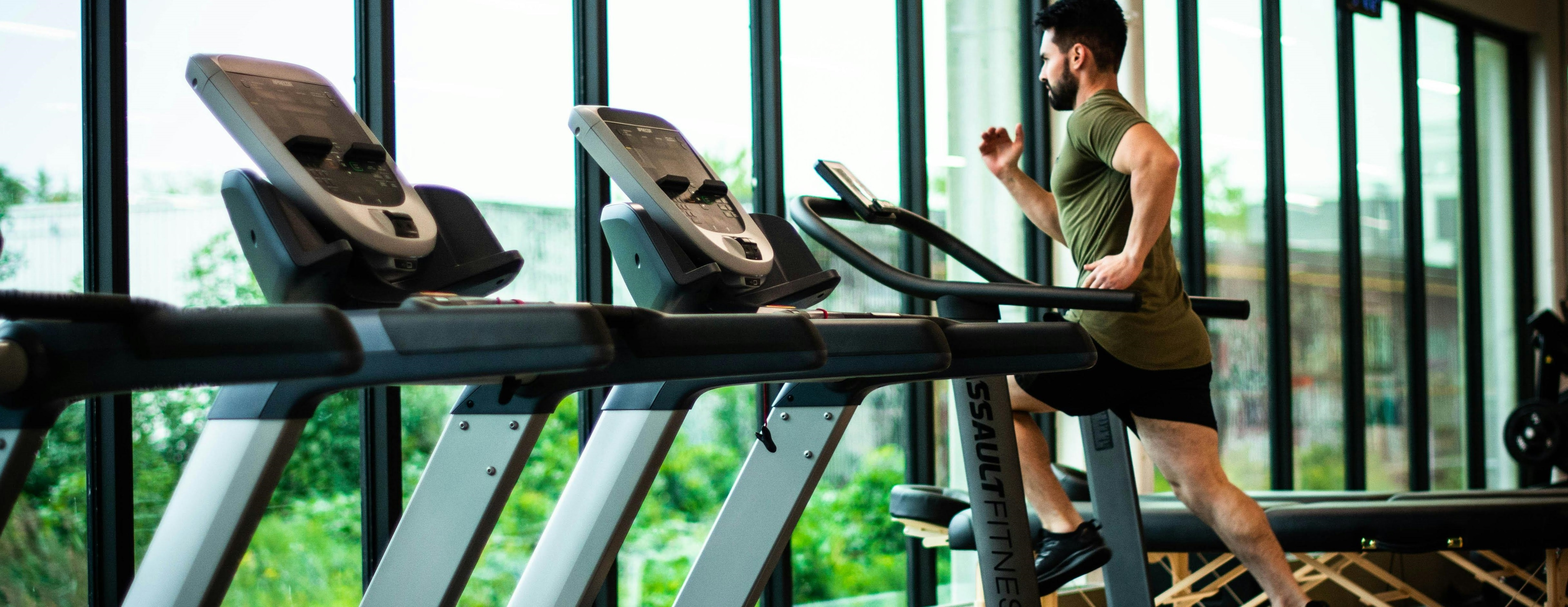
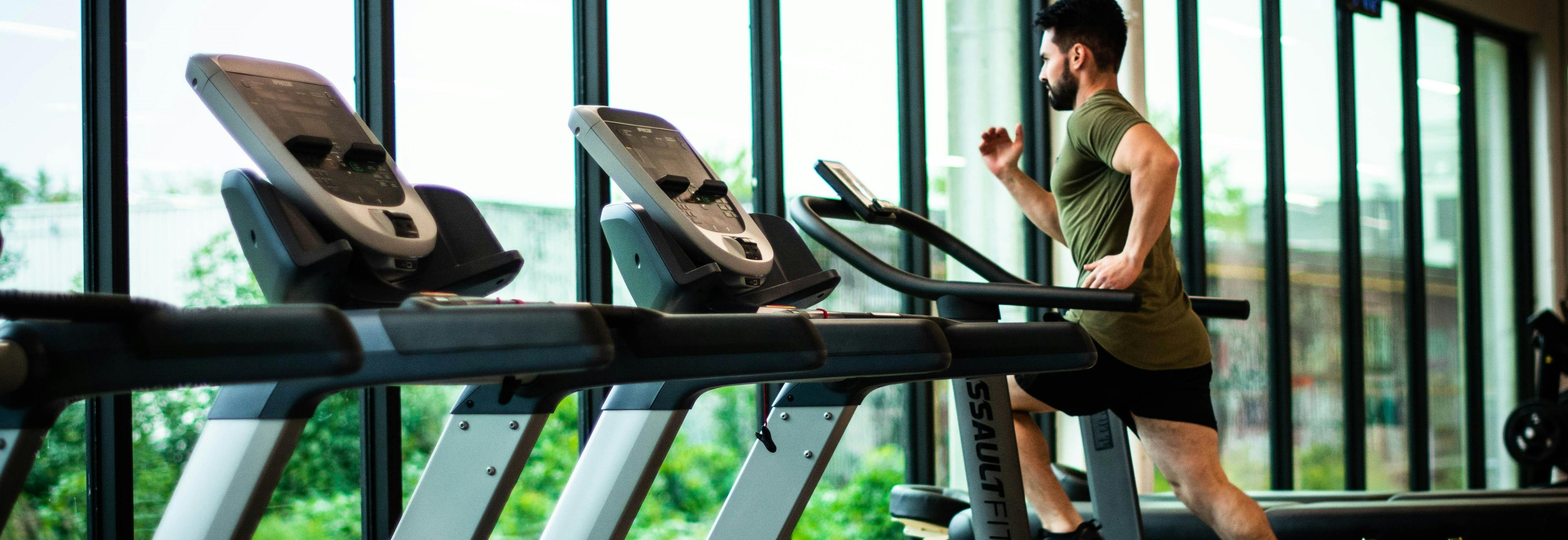
refactor(components/app): Remove fixed header, adjust home image, slow down loop animation, and update page layout

diff --git a/src/components/RollingGallery.tsx b/src/components/RollingGallery.tsx
@@ -1,0 +1,170 @@
+import React, { useEffect, useState } from "react";
+import {
+  motion,
+  useMotionValue,
+  useAnimation,
+  useTransform,
+} from "motion/react";
+import type { PanInfo, ResolvedValues } from "motion/react";
+
+const IMGS: string[] = [
+  "https://images.unsplash.com/photo-1517836357463-d25dfeac3438?w=500&auto=format&fit=crop&q=60&ixlib=rb-4.1.0&ixid=M3wxMjA3fDB8MHxzZWFyY2h8NHx8Z3ltfGVufDB8fDB8fHww",
+  "https://images.pexels.com/photos/868757/pexels-photo-868757.jpeg",
+  "https://images.pexels.com/photos/1552242/pexels-photo-1552242.jpeg",
+  "https://images.pexels.com/photos/863988/pexels-photo-863988.jpeg",
+  "https://images.unsplash.com/photo-1520250497591-112f2f40a3f4?q=80&w=3456&auto=format&fit=crop&ixlib=rb-4.0.3&ixid=M3wxMjA3fDB8MHxwaG90by1wYWdlfHx8fGVufDB8fHx8fA%3D%3D",
+  "https://images.unsplash.com/photo-1520250497591-112f2f40a3f4?q=80&w=3456&auto=format&fit=crop&ixlib=rb-4.0.3&ixid=M3wxMjA3fDB8MHxwaG90by1wYWdlfHx8fGVufDB8fHx8fA%3D%3D",
+];
+
+interface RollingGalleryProps {
+  autoplay?: boolean;
+  pauseOnHover?: boolean;
+  images?: string[];
+}
+
+const RollingGallery: React.FC<RollingGalleryProps> = ({
+  autoplay = false,
+  pauseOnHover = false,
+  images = [],
+}) => {
+  const galleryImages = images.length > 0 ? images : IMGS;
+
+  const [isScreenSizeSm, setIsScreenSizeSm] = useState<boolean>(
+    window.innerWidth <= 640,
+  );
+  useEffect(() => {
+    const handleResize = () => setIsScreenSizeSm(window.innerWidth <= 640);
+    window.addEventListener("resize", handleResize);
+    return () => window.removeEventListener("resize", handleResize);
+  }, []);
+
+  const cylinderWidth: number = isScreenSizeSm ? 1100 : 1800;
+  const faceCount: number = galleryImages.length;
+  const faceWidth: number = (cylinderWidth / faceCount) * 1.8;
+  const radius: number = (cylinderWidth / (2 * Math.PI)) * 1.2;
+
+  const dragFactor: number = 0.05;
+  const rotation = useMotionValue(0);
+  const controls = useAnimation();
+
+  const transform = useTransform(
+    rotation,
+    (val: number) => `rotate3d(0,1,0,${val}deg)`,
+  );
+
+  const startInfiniteSpin = (startAngle: number) => {
+    controls.start({
+      rotateY: [startAngle, startAngle - 360],
+      transition: {
+        duration: 20,
+        ease: "linear",
+        repeat: Infinity,
+      },
+    });
+  };
+
+  useEffect(() => {
+    if (autoplay) {
+      const currentAngle = rotation.get();
+      startInfiniteSpin(currentAngle);
+    } else {
+      controls.stop();
+    }
+    // eslint-disable-next-line react-hooks/exhaustive-deps
+  }, [autoplay]);
+
+  const handleUpdate = (latest: ResolvedValues) => {
+    if (typeof latest.rotateY === "number") {
+      rotation.set(latest.rotateY);
+    }
+  };
+
+  const handleDrag = (
+    _: MouseEvent | TouchEvent | PointerEvent,
+    info: PanInfo,
+  ): void => {
+    controls.stop();
+    rotation.set(rotation.get() + info.offset.x * dragFactor);
+  };
+
+  const handleDragEnd = (
+    _: MouseEvent | TouchEvent | PointerEvent,
+    info: PanInfo,
+  ): void => {
+    const finalAngle = rotation.get() + info.velocity.x * dragFactor;
+    rotation.set(finalAngle);
+    if (autoplay) {
+      startInfiniteSpin(finalAngle);
+    }
+  };
+
+  const handleMouseEnter = (): void => {
+    if (autoplay && pauseOnHover) {
+      controls.stop();
+    }
+  };
+
+  const handleMouseLeave = (): void => {
+    if (autoplay && pauseOnHover) {
+      const currentAngle = rotation.get();
+      startInfiniteSpin(currentAngle);
+    }
+  };
+
+  return (
+    <div className="relative h-[500px] w-full overflow-hidden">
+      <div
+        className="absolute top-0 left-0 h-full w-[48px] z-10"
+        style={{
+          background:
+            "linear-gradient(to left, rgba(0,0,0,0) 0%, #060010 100%)",
+        }}
+      />
+      <div
+        className="absolute top-0 right-0 h-full w-[48px] z-10"
+        style={{
+          background:
+            "linear-gradient(to right, rgba(0,0,0,0) 0%, #060010 100%)",
+        }}
+      />
+      <div className="flex h-full items-center justify-center [perspective:1000px] [transform-style:preserve-3d]">
+        <motion.div
+          drag="x"
+          dragElastic={0}
+          onDrag={handleDrag}
+          onDragEnd={handleDragEnd}
+          onMouseEnter={handleMouseEnter}
+          onMouseLeave={handleMouseLeave}
+          animate={controls}
+          onUpdate={handleUpdate}
+          style={{
+            transform: transform,
+            rotateY: rotation,
+            width: cylinderWidth,
+            transformStyle: "preserve-3d",
+          }}
+          className="flex min-h-[200px] cursor-grab items-center justify-center [transform-style:preserve-3d]"
+        >
+          {galleryImages.map((url, i) => (
+            <div
+              key={i}
+              className="group absolute flex h-fit items-center justify-center p-[8%] [backface-visibility:hidden] md:p-[6%]"
+              style={{
+                width: `${faceWidth}px`,
+                transform: `rotateY(${(360 / faceCount) * i}deg) translateZ(${radius}px)`,
+              }}
+            >
+              <img
+                src={url}
+                alt="gallery"
+                className="pointer-events-none w-full h-[200px] rounded-[15px] border-[3px] border-white object-cover transition-transform duration-300 ease-out group-hover:scale-105"
+              />
+            </div>
+          ))}
+        </motion.div>
+      </div>
+    </div>
+  );
+};
+
+export default RollingGallery;

diff --git a/src/App.tsx b/src/App.tsx
@@ -2,11 +2,16 @@ import Activitie from "./components/Activitie";
 import Header from "./components/Header";
 import Home from "./components/Home";
 import LogoLoop from "./components/LogoLoop";
+// import RollingGallery from './components/RollingGallery';
 import Plan from "./components/Plan";
 import Time from "./components/Time";
 
 import IconScroll from "/iconScroll.png";
 import TecnlogyScroll from "/tecnologyScroll.png";
+
+import Zumba from "/zumba.jpg";
+import Crossfit from "/crossfit.jpg";
+import Yoga from "/yoga.jpg";
 
 function App() {
   const imageLogos = [
@@ -14,16 +19,22 @@ function App() {
     { src: TecnlogyScroll, alt: "Company 1" },
   ];
 
+  const image = [
+    { src: Zumba, alt: "Company 1" },
+    { src: Crossfit, alt: "Company 1" },
+    { src: Yoga, alt: "Company 1" },
+  ];
+
   return (
     <>
-      <div className="bg-white">
+      <div className="bg-gradient-to-t from-[#9cff1e] to-[#f7f6f6]">
         <Header />
         <Home />
 
         <div className="bg-black">
           <LogoLoop
             logos={imageLogos}
-            speed={120}
+            speed={50}
             direction="left"
             logoHeight={48}
             gap={40}
@@ -35,9 +46,34 @@ function App() {
           />
         </div>
 
-        <Time />
-        <Activitie />
+        {/* <Activitie /> */}
+
+        {/* <div className="bg-[#9cff1e] h-screen p-8 ">
+          <h2 className="text-white font-bold text-center text-3xl">Atividades que transformam seu treino</h2>
+          <p className="text-white">Na Technology Gym, unimos inovação e movimento para oferecer uma experiência única de treino. Nossa academia tecnológica e inovadora foi pensada para quem busca saúde, bem-estar e performance em um só lugar.</p>
+          <p>Aqui, você encontra aulas dinâmicas e diversificadas, que atendem a todos os estilos e objetivos</p>
+          <p>Zumba e danças variadas: energia, diversão e alto gasto calórico ao som de músicas envolventes.</p>
+          <p>Crossfit: treinos intensos que desafiam seus limites e desenvolvem força, resistência e explosão.</p>
+          <p>Natação: benefícios completos para corpo e mente, com técnicas que vão do iniciante ao avançado.</p>
+          <p>Spinning: pedale em alto ritmo com treinos motivadores que melhoram o condicionamento e queimam calorias.</p>
+          <p>Yoga e meditação: equilíbrio físico e mental, promovendo relaxamento, foco e flexibilidade.</p>
+          <div className="flex  items-center justify-center">
+            <LogoLoop
+              logos={image}
+              speed={80}
+              direction="left"
+              logoHeight={250}
+              gap={40}
+              pauseOnHover
+              scaleOnHover
+              fadeOut
+              fadeOutColor="#9cff1e"
+              ariaLabel="Technology partners"
+            />
+          </div>
+        </div> */}
         <Plan />
+        <Time />
       </div>
     </>
   );

diff --git a/src/components/CardPlan.tsx b/src/components/CardPlan.tsx
@@ -3,7 +3,7 @@ import ItemPlan from "./ItemPlan";
 
 export function CardPlanFitness() {
   return (
-    <div className="bg-[#949494] p-8 rounded-xl m-4 flex flex-col items-center">
+    <div className="bg-[#000000] p-8 rounded-xl m-4 flex flex-col items-center">
       <h3 className="text-white text-2xl font-bold mb-4">
         Plano Fitness - R$ 99/mês
       </h3>
@@ -48,7 +48,7 @@ export function CardPlanFitness() {
 
 export function CardPlanPower() {
   return (
-    <div className="bg-[#949494] p-8 rounded-xl m-4 flex flex-col items-center">
+    <div className="bg-[#000000] p-8 rounded-xl m-4 flex flex-col items-center">
       <h3 className="text-white text-2xl font-bold mb-4">
         Plano Power - R$ 199/mês
       </h3>
@@ -93,7 +93,7 @@ export function CardPlanPower() {
 
 export function CardPlanVip() {
   return (
-    <div className="bg-[#949494] p-8 rounded-xl m-4 flex flex-col items-center">
+    <div className="bg-[#000000] p-8 rounded-xl m-4 flex flex-col items-center">
       <h3 className="text-white text-2xl font-bold mb-4">
         Plano Vip - R$ 249/mês
       </h3>

diff --git a/src/components/Activitie.tsx b/src/components/Activitie.tsx
@@ -6,12 +6,10 @@ import CardActivite from "./CardActivitie";
 
 const Activitie: React.FC = () => {
   return (
-    <div className="bg-[#9cff1e]">
-      <div className="flex flex-col sm:flex-row items-center justify-center text-center gap-8 p-4">
-        <CardActivite src={Yoga} alt="Yoga" title="Yoga" />
-        <CardActivite src={Zumba} alt="Zumba" title="Zumba" />
-        <CardActivite src={Crossfit} alt="Crossfit" title="Crossfit" />
-      </div>
+    <div className="flex flex-col sm:flex-row items-center justify-center text-center gap-8 p-4">
+      <CardActivite src={Yoga} alt="Yoga" title="Yoga" />
+      <CardActivite src={Zumba} alt="Zumba" title="Zumba" />
+      <CardActivite src={Crossfit} alt="Crossfit" title="Crossfit" />
     </div>
   );
 };

diff --git a/src/components/Header.tsx b/src/components/Header.tsx
@@ -24,7 +24,7 @@ export default function Header() {
 
   return (
     <header
-      className={`fixed w-full  top-0 left-0 z-50 transition-all duration-300 ${
+      className={`w-full  top-0 left-0 z-50 transition-all duration-300 ${
         scrolled
           ? "backdrop-blur-md bg-black border-b border-white/10 shadow-sm"
           : "bg-black"

diff --git a/src/components/Plan.tsx b/src/components/Plan.tsx
@@ -2,7 +2,7 @@ import { CardPlanFitness, CardPlanPower, CardPlanVip } from "./CardPlan";
 
 export default function Plan() {
   return (
-    <div className="bg-black">
+    <div>
       <h2 className="text-white font-bold text-center text-3xl">PLANOS</h2>
       <div className=" grid grid-cols-1 sm:grid-cols-3 gap-2 ">
         <CardPlanFitness />

diff --git a/src/components/Home.tsx b/src/components/Home.tsx
@@ -1,5 +1,5 @@
 import HomeImg from "/home.jpg";
 
 export default function Home({}) {
-  return <img src={HomeImg} alt="home" className="h-full mt-20" />;
+  return <img src={HomeImg} alt="home" className="h-full" />;
 }
